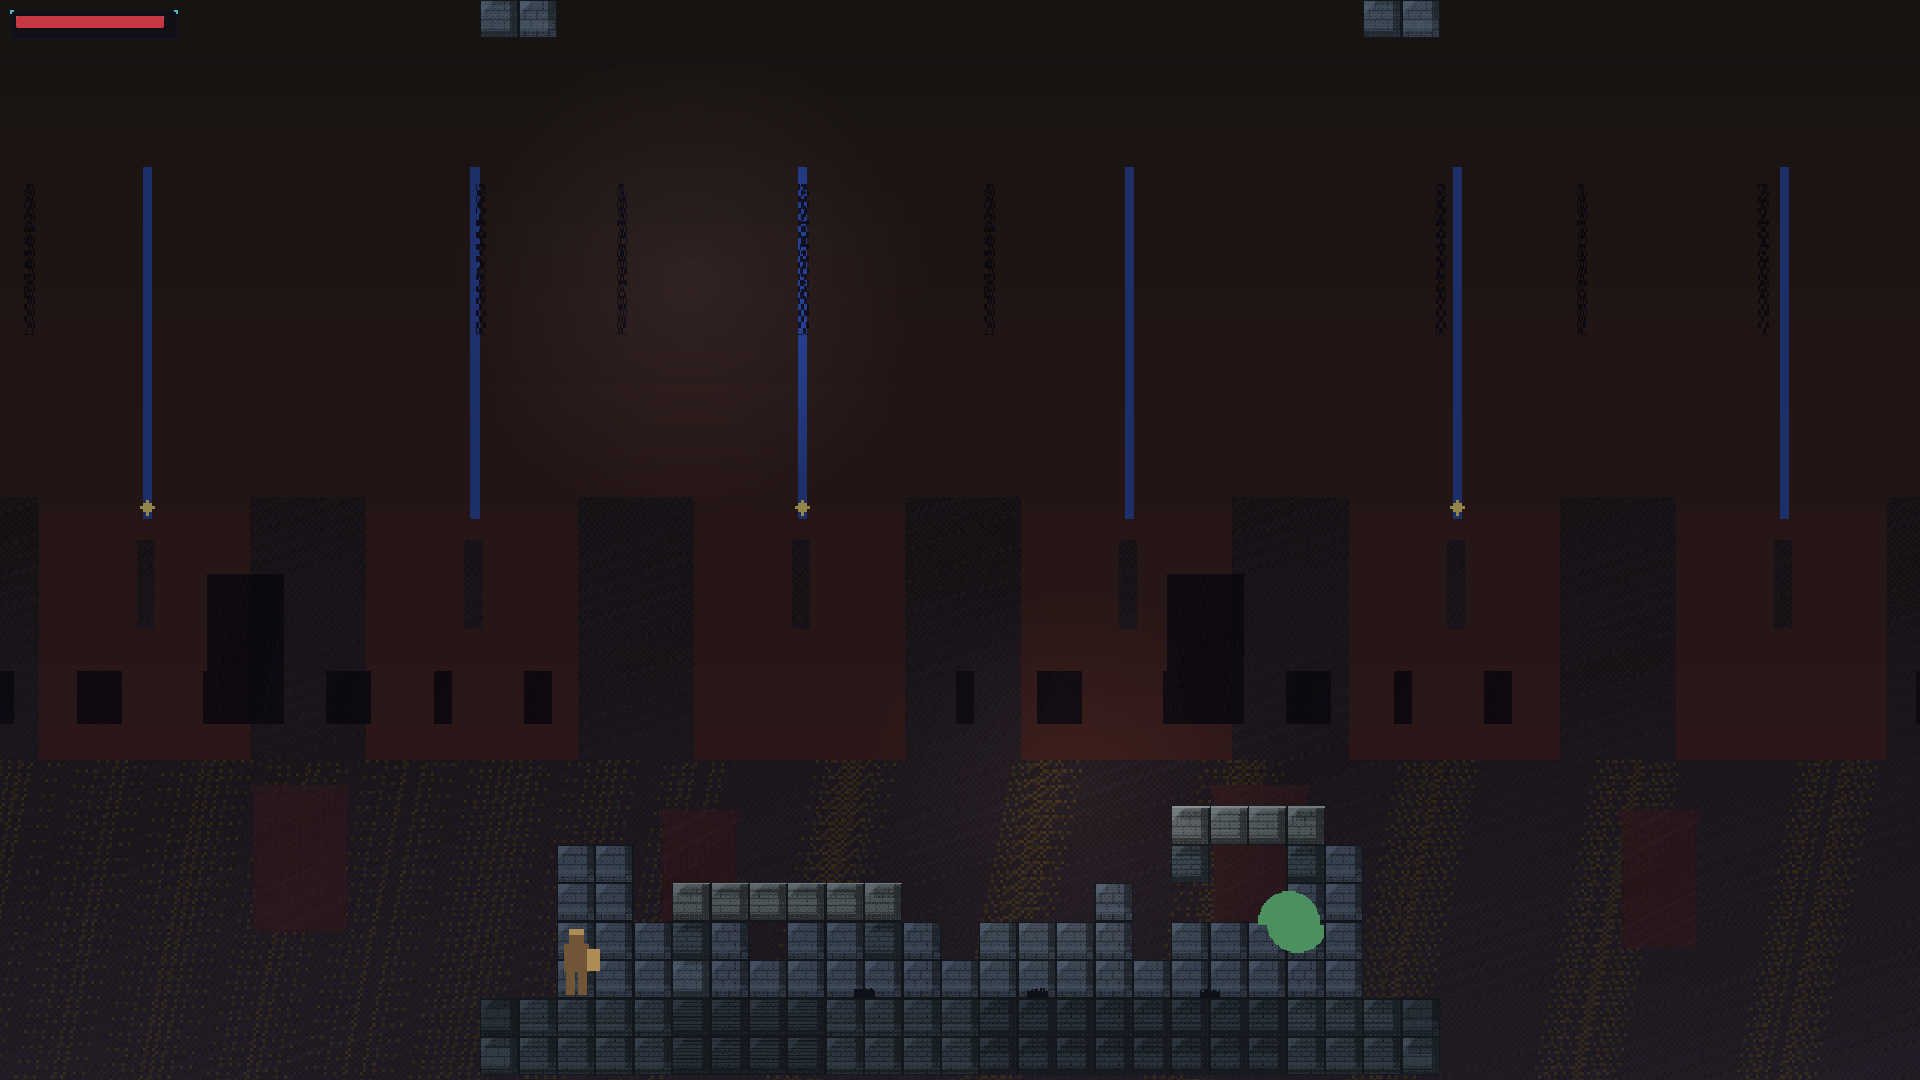
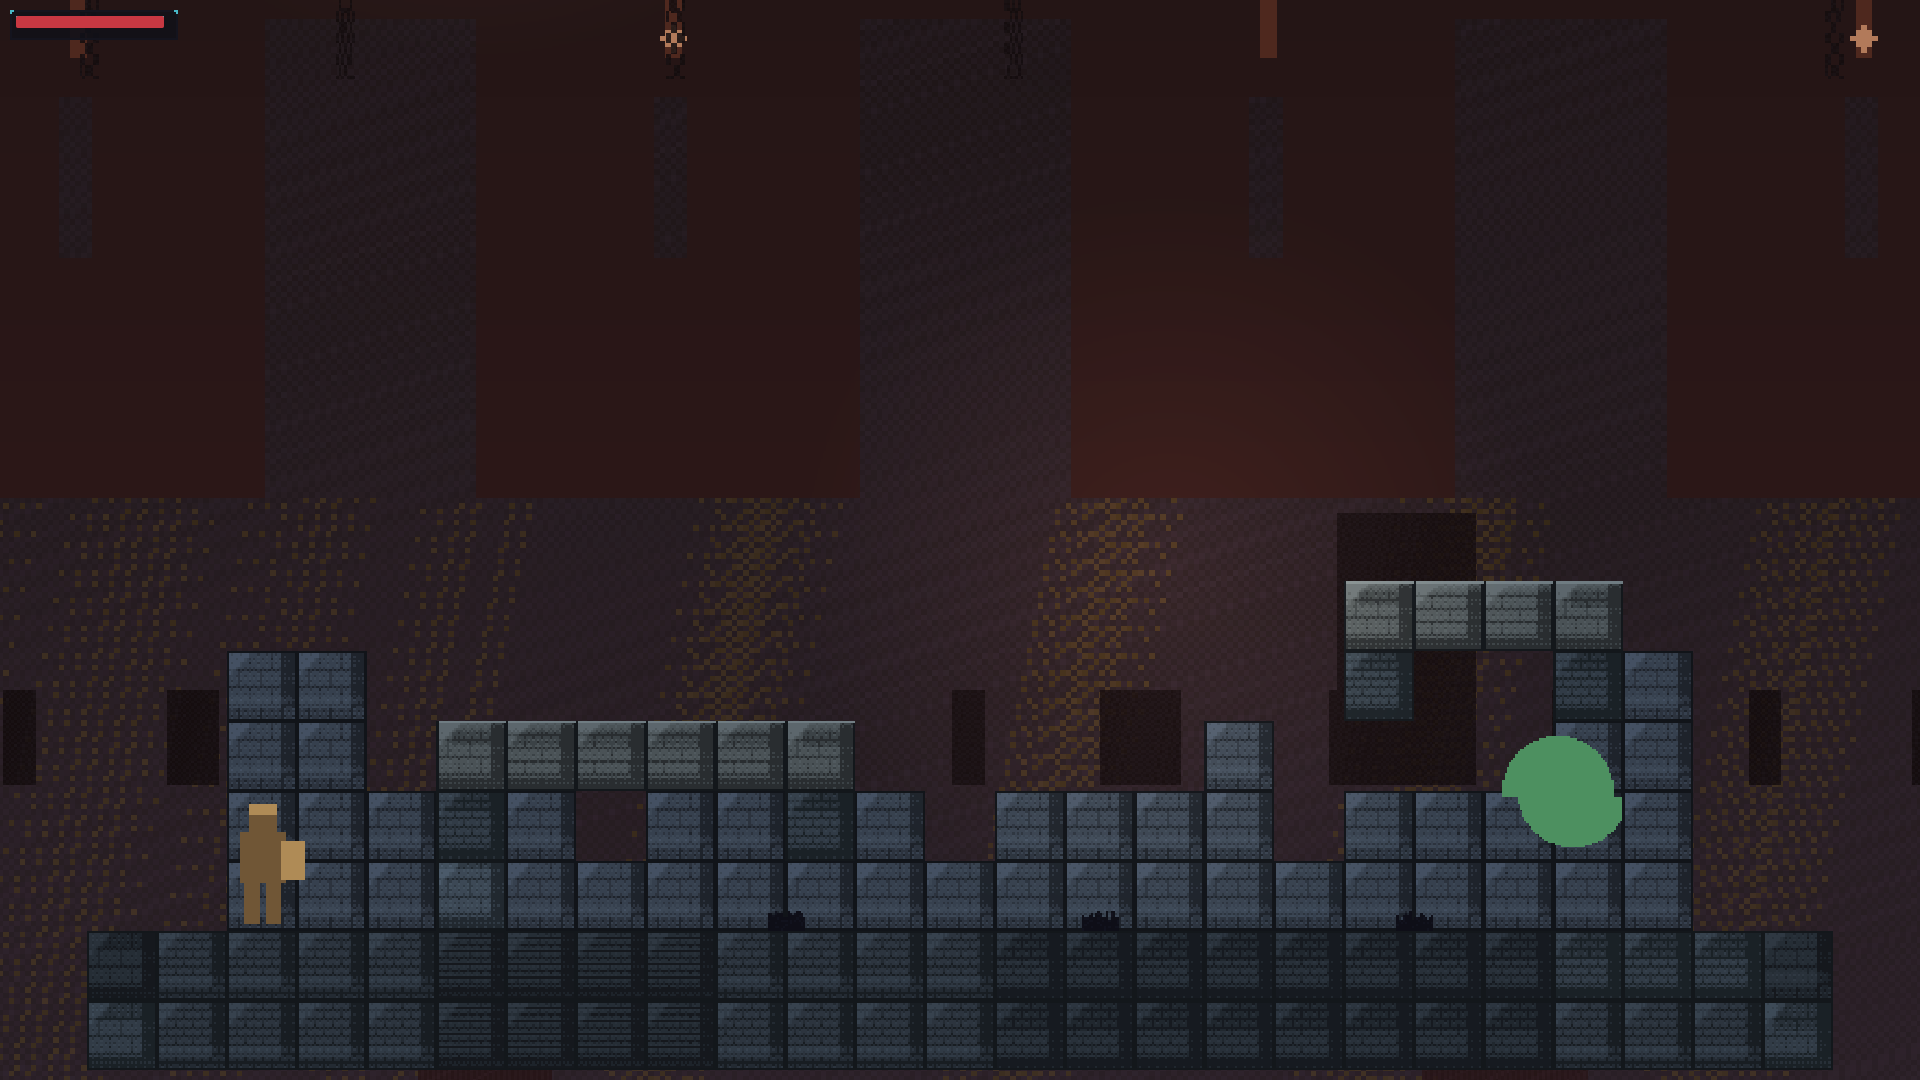
docs(review): v3 framing + warm-beacon stills, rigorous collision note, unresolved-QA wording
Refresh after stills/collision overlays/contact sheet for the playable-band framing (all rooms)
and the warm far-plate beacons. Correct the traversal claim to a position+transform-inclusive
collision fingerprint (not just counts/sizes), and label gameplay_screenshot_qa an unresolved
failure (17/18 = partial validation), with the spawn-frame occupancy/lumaStdDev breakdown.

diff --git a/review-artifacts/README.md b/review-artifacts/README.md
@@ -15,7 +15,7 @@ Actors are now procedural courier silhouettes (not mustard cubes). Spawn `gamepl
 | Code commit (after stills) | `b293f22b744f42c132e710009742d41bdc8f8e39` (`b293f22`) |
 | Message | composition + ability-shrine camera pass + palette color pass + readability pass (brighter ledges, courier silhouette, shrine focal core) |
 | Before stills | Pre-pass recapture of the same prompt/seed, generated from `a04ce27` |
-| Slug | `foundry-visual-slice-final` (before: `foundry-visual-slice-pr2`) |
+| Slug | `foundry-visual-slice-v3` (before: `foundry-visual-slice-pr2`) |
 | Prompt | Ashen Foundry: a lone courier delves a ruined mechanical forge of brass and sooted iron, side-view metroidvania |
 | Profile | `VISUAL_VERTICAL_SLICE` |
 | Mode | `LOCAL_ONLY` |
@@ -27,16 +27,18 @@ Actors are now procedural courier silhouettes (not mustard cubes). Spawn `gamepl
 | `visualSliceApproved` | `false` |
 | `visualReviewStatus` | `VISUAL_SLICE_REVIEW_REQUIRED` |
 
-After PNGs are byte-identical to `GeneratedGames/foundry-visual-slice-final/reports/{02,04,05,06,07}*.png` from that run.
+After PNGs are byte-identical to `GeneratedGames/foundry-visual-slice-v3/reports/{02,04,05,06,07}*.png` from that run.
 
 ## Traversal continuity — verified (not inferred from stills)
 
 The vanished tall columns were decorative runtime `RearWall` ribs (`collision_enabled = false`),
 not climb geometry. Evidence:
 
-- **Collidable geometry is byte-identical before vs after.** Every room's `StaticBody2D` +
-  `CollisionShape2D` count and every `RectangleShape2D` size match between `foundry-visual-slice-pr2`
-  (before) and `foundry-visual-slice-final` (after).
+- **Collidable geometry is identical before vs after — positions and transforms included.** For
+  every room a fingerprint of each `CollisionShape2D` (its parent, its `RectangleShape2D` size, and
+  the full parent-chain of `position`/`rotation`/`scale`/`transform`) hashes identically between
+  before (`foundry-visual-slice-pr2`) and after. Counts and sizes alone would not prove this; the
+  fingerprint covers placement too.
 - **Collision overlays** in [`collision/`](collision/) render each room's real collidable
   surfaces (floor + platforms, green) over the art for rooms 02/04/05/07.
 - **Runtime gates pass:** `world_connectivity`, `world_reachability` (all rooms reachable via
@@ -50,10 +52,16 @@ not climb geometry. Evidence:
 - **Courier silhouette:** head + torso + two legs + carrying pack, with the accent limited to a
   small warm helmet band and the pack instead of a full cyan cap.
 - **Focal points:** shrine/save/ability props get a bright luminous core so a checkpoint reads as a
-  focal point. The ability-shrine room (05) is also camera-pinned to the playable band with a
-  furnace hearth (concurrent godot pass).
-- **Still open (follow-ups):** non-shrine rooms (02/04) still frame a tall room with action along
-  the bottom, and the blue vertical beacon elements are unchanged (source not conclusively traced).
+  focal point.
+- **Framing:** the playable-band camera (floor + platforms + jump apex) is now applied to **every**
+  side-view room, not just the shrine, so rooms 02/04 frame the action instead of a tall empty
+  background. Required routes are preserved — full room width is always kept, rooms that exit
+  upward keep full height, and the top crop is capped at 45%. Collision geometry is unchanged
+  (verified above).
+- **Blue beacons — traced and fixed:** the cold-blue vertical lines were the far-plate vault ribs
+  in `paintFarVaultAndLanterns`, hardcoded to `(34,52,108)` (with gold `(168,148,78)` lanterns),
+  scaled up on the far plate. They are now derived from the palette (warm structural rib + warm
+  amber lantern), and the near-parallax chains are warmed too.
 
 ## What the after pass changed (on top of `ddbb803`)
 
@@ -104,7 +112,7 @@ The FAIL in `validation_report.json` is **not** computed from rooms 02 / 04 / 05
 
 | Source | File | Role |
 |---|---|---|
-| Gate | `qa/screenshot_gameplay.png` | **Scored.** SHA-256 prefix `8c90bbb7583df60a`. 1920×1080. |
+| Gate | `qa/screenshot_gameplay.png` | **Scored.** SHA-256 prefix `705f6cb5fdedb450`. 1920×1080. |
 | Room stills | `qa/screenshot_slice_traversal.png` etc. = `reports/02-traversal.png` … | Same **windowed** RuntimeSmokeTest session; **different PNGs** (different hashes). |
 
 Capture path:
@@ -112,8 +120,8 @@ Capture path:
 1. Headless Godot smoke still hits `texture_2d_get` null (dummy renderer). Those runtime screenshot checks stay SOFT_FAIL. That is **not** the gate input.
 2. `captureGameplayScreenshots` then ran **windowed** Godot (`--rendering-driver opengl3`, `METROFORGE_CAPTURE=1`). Telemetry `strategy` is `windowed_gpu`. The scored frame is **not** blank (occupancy 100%, ~80 quantized colors).
 
-Reported gate numbers (`screenshot_critique.json` / `validation_report`) for this after run: occupancy **0.983**, uniqueColors **51**, lumaStdDev **6.63**, score **40**, issue wallpaper/low-contrast. The windowed (`windowed_gpu`, `opengl3`) frame is not blank.
+Reported gate numbers (`screenshot_critique.json` / `validation_report`) for this after run: occupancy **1.0**, uniqueColors **56**, lumaStdDev **7.35**, score **40**, issue wallpaper/low-contrast. The windowed (`windowed_gpu`, `opengl3`) frame is not blank.
 
-The warm-soot/gunmetal color pass slightly changes the numbers (the old navy run reported occupancy 1.0 / lumaStdDev 5.10 / 80 colors) but the deterministic `gameplay_screenshot_qa` gate **still fails** at score 40: a single spawn still frame is intentionally low-contrast for this heuristic. That is exactly why **visual approval stays pending** — automated QA is not a substitute for human review.
+The `gameplay_screenshot_qa` gate is an **unresolved failure** — 17/18 is **partial** validation, not a pass. The scored frame is the start room at spawn; it trips the rule because `occupancy > 0.94` (almost no pure-black void — the warm soot backdrop counts as painted) **and** `lumaStdDev < 10` (low spatial contrast: a large uniform soot field above uniform gunmetal tiles). The band-framing pass raised occupancy (a tighter frame is fuller), so the heuristic still fails at 40. This is the same weak composition a human reviewer sees; moving the gate needs more spatial contrast / focal variation in the spawn frame, which is not yet done. Visual approval stays **pending**.
 
 Rooms 02–07, if scored independently with the same function, also trip wallpaper/low-contrast. That is extra context only. The recorded `gameplay_screenshot_qa` FAIL is from `screenshot_gameplay.png`.
